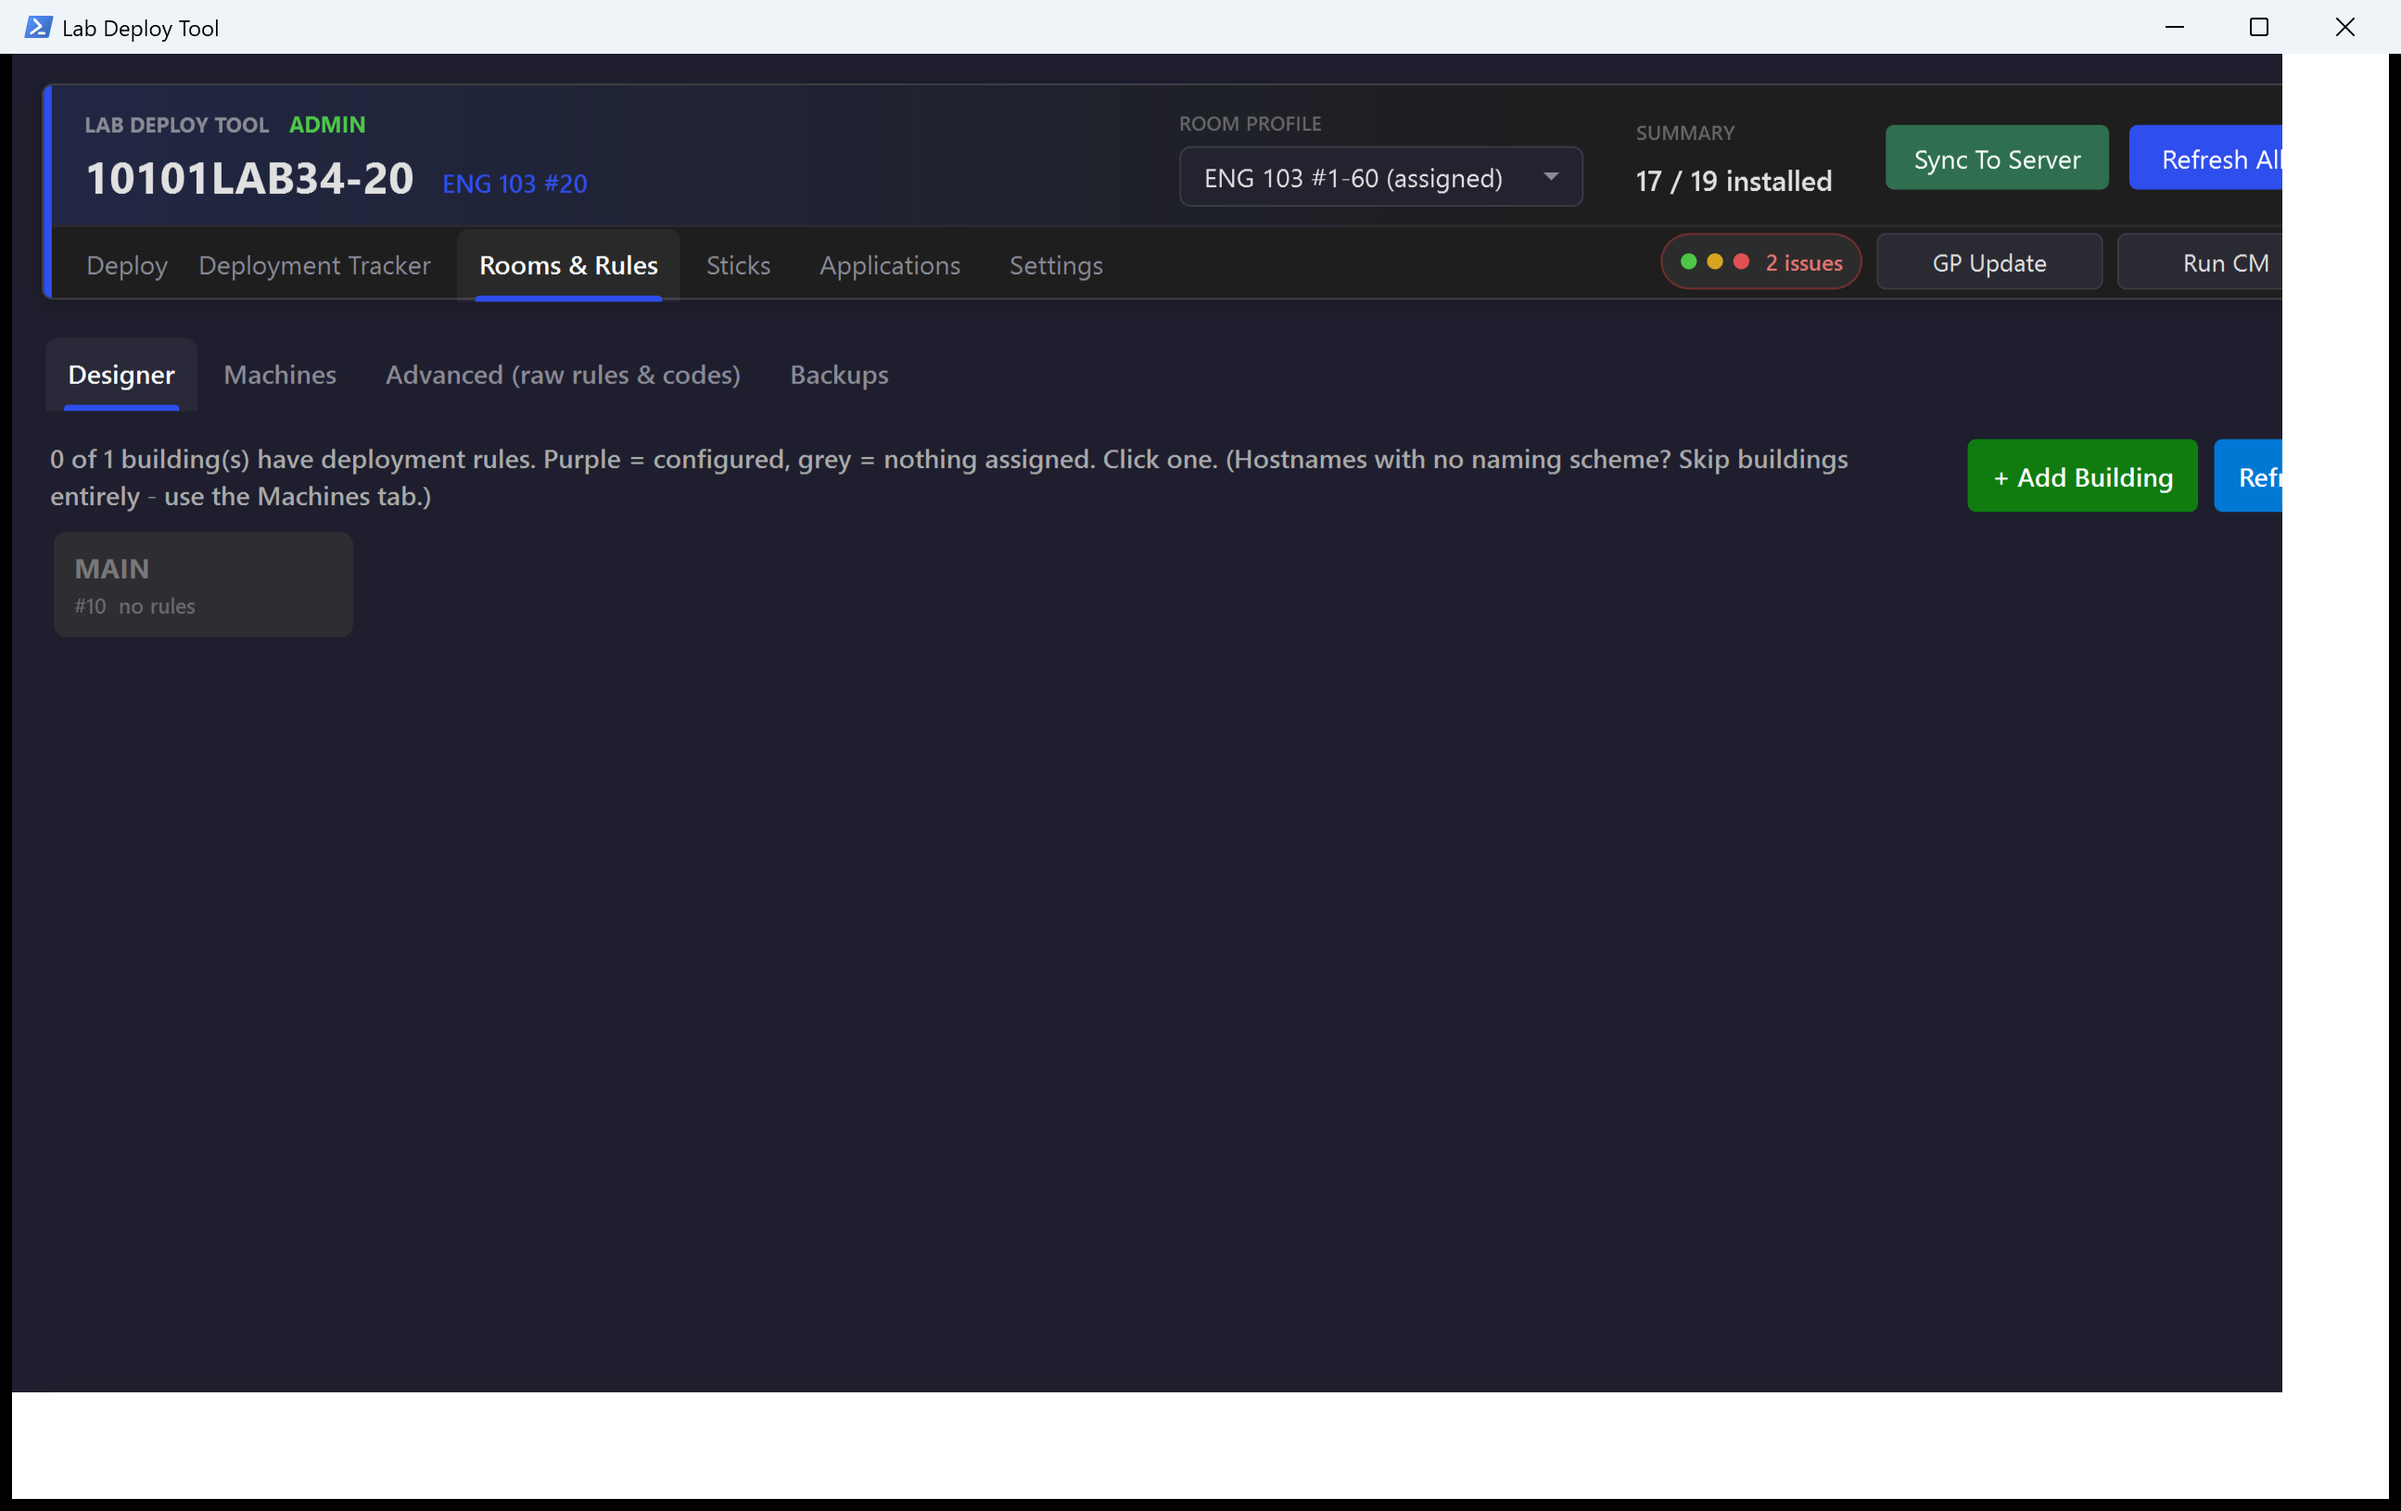
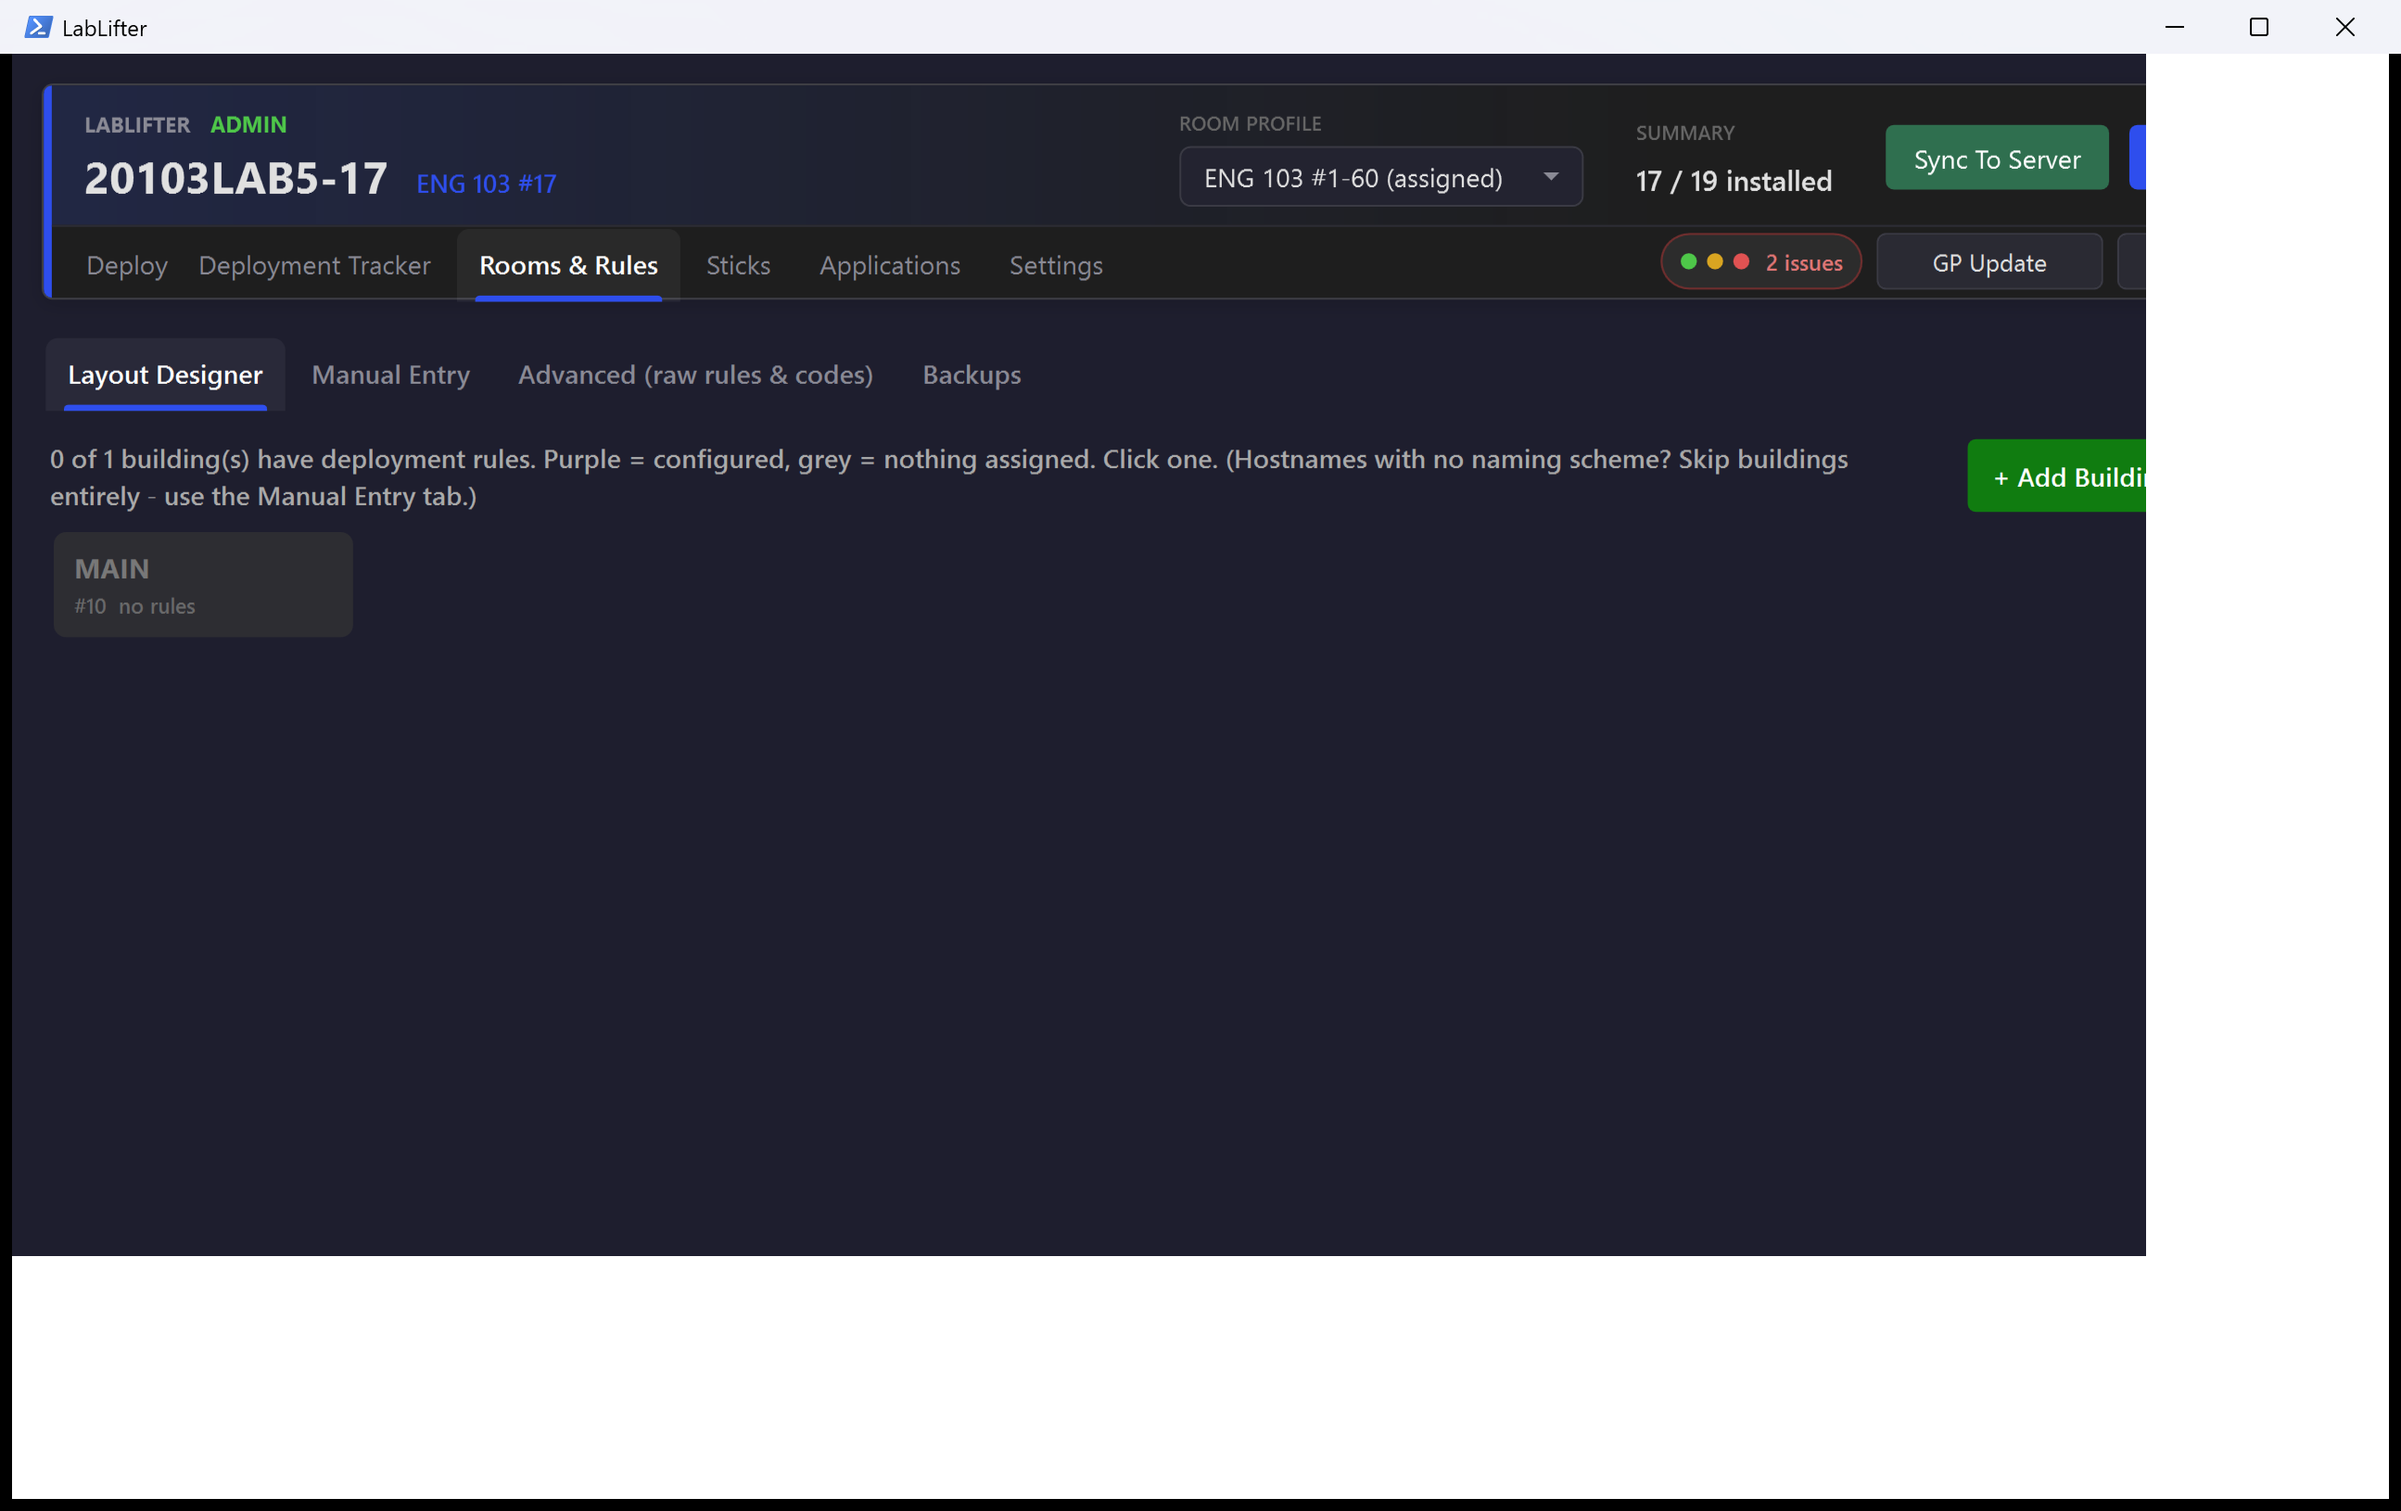
Fresh LabLifter screenshots from a richer demo fleet
Three buildings, four rooms, 98 machines, every tile state on the wall
(mostly green). Shot by the harness under the new branding; the stale
Lab Deploy Tool era images are gone.

diff --git a/README.md b/README.md
@@ -32,8 +32,8 @@ that puts the fleet's install status on one dashboard wall.
 ![Rooms & Rules Designer](docs/screenshots/gui-designer.png)
 *The Layout Designer (Rooms & Rules): every building the hostname decoder knows, purple when it carries deployment rules. Click through to assign per-machine-range app sets on a visual ruler.*
 
-![Sticks tab](docs/screenshots/gui-sticks.png)
-*The stick fleet: every known USB deployment stick, its sync state against the master catalog, and one-button update-all when sticks are plugged in.*
+![Deployment Tracker](docs/screenshots/gui-tracker.png)
+*The Deployment Tracker: every machine in every room as a tile, same palette as the dashboard wall. Green done, yellow partial, purple owes GP/CM, blue reported missing, an X for broken, grey never seen.*
 
 ## Why it's built this way
 
